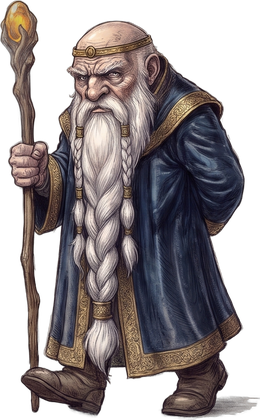
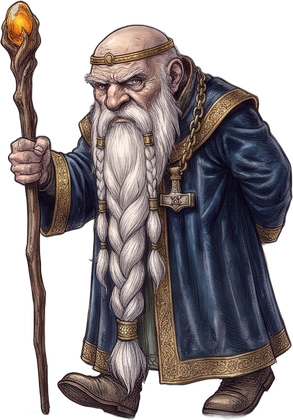
Build 319: world 2: the gate plaque reads «Чертоги под горой» (her «название школы явно ж не школа магии»), Старейшина Корень keeps his gold circlet while walking (walk cycle redrawn, 2 tokens; cache v3), the trading-yard sign has its colour and goat emoji (her screenshot: «орговый двор» on a white 

diff --git a/js/game.js b/js/game.js
@@ -2,10 +2,10 @@
 import {
   OFFLINE_CAP_SEC, MAX_DESKS, MAX_ITEM_LEVEL, MAX_TEACHER_LEVEL, MAX_TIME_LEVEL,
   CLASSES, SPECIES, NAMES, MISSIONS, WORLDS, WORLD, META,
-} from './data.js?v=318';
-import { EMOJI_RE, emojiImage, preloadEmoji, watchEmoji, emojiHtml } from './emoji.js?v=318';
-import { initMinigame } from './minigame.js?v=318';
-import { initChests } from './chests.js?v=318';
+} from './data.js?v=319';
+import { EMOJI_RE, emojiImage, preloadEmoji, watchEmoji, emojiHtml } from './emoji.js?v=319';
+import { initMinigame } from './minigame.js?v=319';
+import { initChests } from './chests.js?v=319';
 // mini-game «Зельеварка» (match-3, js/minigame.js): a pill on the main screen, its own overlay; the school keeps living under it
 const MG = initMinigame({ state: () => S, earn: (n) => earn(n), save: () => save(), toast: (t) => toast(t), fmt: (n) => fmt(n), emojiHtml, emojiImage,
   audioOut: () => { if (!sfxOn() || document.hidden) return null; const c = audio(); return c && c.state === 'running' ? { c, out: AOUT } : null; },
@@ -20,7 +20,7 @@ const CHESTS = initChests({ state: () => S, earn: (n) => earn(n), save: () => sa
 const SAVE_KEY = WORLD === 1 ? 'magicschool.save.v2' : 'magicschool.save.v2.w' + WORLD;   // every world keeps its own save
 const saveKeyOf = (w) => (w === 1 ? 'magicschool.save.v2' : 'magicschool.save.v2.w' + w);
 const VERSION = '0.9';
-const BUILD = 318;   // keep equal to the ?v= number in index.html
+const BUILD = 319;   // keep equal to the ?v= number in index.html
 const $ = (s, r = document) => r.querySelector(s);
 const rnd = (a) => a[Math.floor(Math.random() * a.length)];
 
@@ -2054,7 +2054,7 @@ const ZMIN = 0.9, ZMAX = 3.4;
 const sprites = {};
 // professors drawn one by one, each approved by Maria (class id -> file in assets/staff)
 const STAFF_ART = { herbs: 'moss', potions: 'bubble', stars: 'lun', charms: 'spark', flight: 'breeze', elements: 'storm', final: 'owl' };
-const STAFF_V = {granite: 2, burav: 2, hammer: 2, iskra: 2 };   // per-name cache version of redrawn staff sprites (world-2 grim style, her pick 2026-11-23)
+const STAFF_V = {granite: 2, burav: 2, hammer: 2, iskra: 2, koren: 3 };   // per-name cache version of redrawn staff sprites (world-2 grim style, her pick 2026-11-23)
 const STAFF_ART_W2 = { runes: 'granite', mine: 'burav', forge: 'hammer', gems: 'iskra', guards: 'grom', lake: 'tisha', final: 'koren' };   // world 2 teachers (her pick 2026-11-22: old dwarf rune master «Мастер Гранит»)
 const staffOf = (cid) => (WORLD === 1 ? STAFF_ART : WORLD === 2 ? STAFF_ART_W2 : {})[cid];   // per world: world-2 'final' must not take the owl
 const STAFF_H = { koren: 50, tisha: 52, grom: 56, iskra: 50, hammer: 56, burav: 54, granite: 54, moss: 58, bubble: 54, lun: 68, spark: 62, breeze: 56, storm: 68, owl: 60 };   // teachers clearly taller than students (30) — her ruling 2026-11-21
@@ -3242,7 +3242,7 @@ function drawGate(c) {
     if (outSh.gate_big) { c.save(); c.globalAlpha = 0.26; c.translate(p.x, p.y); c.transform(1, 0, -0.62, -0.3, 0, 0); c.drawImage(outSh.gate_big, -w * GA.ax, -h * GA.ay, w, h); c.restore(); }
     c.drawImage(im, ox, oy, w, h);
     c.save(); c.translate(ox + w * GA.tx, oy + h * GA.ty); c.rotate(GA.rot); c.textAlign = 'center';
-    for (const [t, dy] of [['Школа', GA.l1], ['магии', GA.l2]]) { c.font = `800 ${GA.fs}px ui-rounded,"SF Pro Rounded","Nunito","Segoe UI",sans-serif`; c.lineWidth = 1.6; c.strokeStyle = GA.stroke; c.strokeText(t, 0, dy); c.fillStyle = GA.fill; c.fillText(t, 0, dy); }
+    for (const [t, dy] of WORLD === 2 ? [['Чертоги', GA.l1], ['под горой', GA.l2]] : [['Школа', GA.l1], ['магии', GA.l2]]) { c.font = `800 ${GA.fs}px ui-rounded,"SF Pro Rounded","Nunito","Segoe UI",sans-serif`; c.lineWidth = 1.6; c.strokeStyle = GA.stroke; c.strokeText(t, 0, dy); c.fillStyle = GA.fill; c.fillText(t, 0, dy); }
     c.restore();
     return;
   }
@@ -3297,7 +3297,7 @@ function drawSign(c, id) {
     }
   }
 }
-const SIGN_BG = { CANT: '#f9d3a5', REC: '#d9c4f7', DORM: '#c2d8f7', LIB: '#f0cf9f', DIR: '#f5d77a', SHOP: '#f7c1d9', TOWER: '#cdbdf2' };
+const SIGN_BG = { TRADE: '#e8d4b0', CANT: '#f9d3a5', REC: '#d9c4f7', DORM: '#c2d8f7', LIB: '#f0cf9f', DIR: '#f5d77a', SHOP: '#f7c1d9', TOWER: '#cdbdf2' };
 let signRects = [];   // tappable room signs of the last frame, world coords
 function drawPlot(c, s, ci, L, B, R, F, center) {
   const next = S.classes.findIndex((q) => !q.built) === ci;

diff --git a/js/emoji-set.js b/js/emoji-set.js
@@ -1,2 +1,2 @@
 // Twemoji (CC-BY 4.0, https://github.com/jdecked/twemoji) PNGs bundled in assets/emoji: one look on every device.
-export const EMOJI_FILES = new Set(["1f971","1f319","1fa96","1f6d2","1fab5","1f6e1","1fa93","2694","1f6f6","1f578","1f41f","1f31e","1f31f","1f32a","1f330","1f331","1f333","1f337","1f338","1f33f","1f344","1f35d","1f369","1f36a","1f36c","1f36d","1f370","1f372","1f374","1f375","1f37d","1f380","1f381","1f389","1f390","1f393","1f3af","1f3b5","1f3c5","1f3c6","1f3d7","1f3ee","1f3f0","1f432","1f44b","1f451","1f465","1f48c","1f48e","1f494","1f496","1f497","1f49c","1f4a1","1f4a4","1f4a5","1f4a7","1f4a8","1f4b0","1f4b8","1f4c8","1f4cb","1f4cc","1f4d0","1f4d2","1f4d5","1f4d6","1f4da","1f4dc","1f4dd","1f4e3","1f4ef","1f4f7","1f507","1f50d","1f512","1f514","1f525","1f527","1f528","1f52d","1f52e","1f56f","1f5dd","1f5fa","1f5ff","1f604","1f60a","1f60b","1f60c","1f60d","1f610","1f61f","1f620","1f622","1f62d","1f631","1f642","1f6a9","1f6aa","1f6b6","1f6bf","1f6cd","1f6ce","1f6cf","1f6e2","1f916","1f91d","1f927","1f957","1f95e","1f963","1f967","1f970","1f973","1f9c1","1f9c3","1f9d0","1f9d9","1f9ea","1f9ed","1f9f0","1f9f8","1f9f9","1f9fa","1f9fe","1fa81","1fa84","1fa90","1fa91","1fa99","1fa9e","1faa2","1faa8","1fab4","1fab6","1fabd","1fad5","1fad6","1fad9","23f1","23f3","2601","2692","2696","2699","26a0","26cf","26f2","270f","2728","2753","2754","2757","2764","2b50","2b55"]);
+export const EMOJI_FILES = new Set(["1f410","1f971","1f319","1fa96","1f6d2","1fab5","1f6e1","1fa93","2694","1f6f6","1f578","1f41f","1f31e","1f31f","1f32a","1f330","1f331","1f333","1f337","1f338","1f33f","1f344","1f35d","1f369","1f36a","1f36c","1f36d","1f370","1f372","1f374","1f375","1f37d","1f380","1f381","1f389","1f390","1f393","1f3af","1f3b5","1f3c5","1f3c6","1f3d7","1f3ee","1f3f0","1f432","1f44b","1f451","1f465","1f48c","1f48e","1f494","1f496","1f497","1f49c","1f4a1","1f4a4","1f4a5","1f4a7","1f4a8","1f4b0","1f4b8","1f4c8","1f4cb","1f4cc","1f4d0","1f4d2","1f4d5","1f4d6","1f4da","1f4dc","1f4dd","1f4e3","1f4ef","1f4f7","1f507","1f50d","1f512","1f514","1f525","1f527","1f528","1f52d","1f52e","1f56f","1f5dd","1f5fa","1f5ff","1f604","1f60a","1f60b","1f60c","1f60d","1f610","1f61f","1f620","1f622","1f62d","1f631","1f642","1f6a9","1f6aa","1f6b6","1f6bf","1f6cd","1f6ce","1f6cf","1f6e2","1f916","1f91d","1f927","1f957","1f95e","1f963","1f967","1f970","1f973","1f9c1","1f9c3","1f9d0","1f9d9","1f9ea","1f9ed","1f9f0","1f9f8","1f9f9","1f9fa","1f9fe","1fa81","1fa84","1fa90","1fa91","1fa99","1fa9e","1faa2","1faa8","1fab4","1fab6","1fabd","1fad5","1fad6","1fad9","23f1","23f3","2601","2692","2696","2699","26a0","26cf","26f2","270f","2728","2753","2754","2757","2764","2b50","2b55"]);

diff --git a/index.html b/index.html
@@ -12,7 +12,7 @@
 <link rel="manifest" href="manifest.webmanifest">
 <link rel="apple-touch-icon" href="icons/icon-180.png?v=2">
 <link rel="icon" href="icons/icon-192.png?v=2">
-<link rel="stylesheet" href="style.css?v=318">
+<link rel="stylesheet" href="style.css?v=319">
 <script>/* iOS home-screen app: innerHeight / 100% / 100dvh are short by the status bar, a strip stayed at the bottom (her screenshots, builds 200-203); use the real screen height */
 (function(){function fit(){if(!(navigator.standalone||matchMedia('(display-mode: standalone)').matches))return;var h=Math.max(window.innerHeight,(Math.abs(window.orientation||0)===90?screen.width:screen.height));var r=document.documentElement;r.style.height=h+'px';if(document.body){document.body.style.height=h+'px';document.body.style.bottom='auto';}}fit();addEventListener('DOMContentLoaded',fit);addEventListener('resize',fit);addEventListener('orientationchange',function(){setTimeout(fit,300);});})();</script>
 </head>
@@ -72,6 +72,6 @@ setTimeout(function(){ if (window.__booted) return; var d=document.createElement
   d.querySelector('button').onclick=function(){ location.reload(); }; document.body.appendChild(d); }, 12000);
 if(!CanvasRenderingContext2D.prototype.roundRect){CanvasRenderingContext2D.prototype.roundRect=function(x,y,w,h){this.rect(x,y,w,h);};}
 </script>
-<script type="module" src="js/game.js?v=318"></script>
+<script type="module" src="js/game.js?v=319"></script>
 </body>
 </html>

diff --git a/js/emoji.js b/js/emoji.js
@@ -1,6 +1,6 @@
 // One emoji look on every device: emoji characters are replaced by bundled Twemoji pictures
 // (CC-BY 4.0, https://github.com/jdecked/twemoji), both in the page (DOM) and on the canvas.
-import { EMOJI_FILES } from './emoji-set.js?v=318';
+import { EMOJI_FILES } from './emoji-set.js?v=319';
 
 export const EMOJI_RE = /\p{Extended_Pictographic}(?:|\p{Extended_Pictographic}?|[\u{1F3FB}-\u{1F3FF}])*/gu;
 
